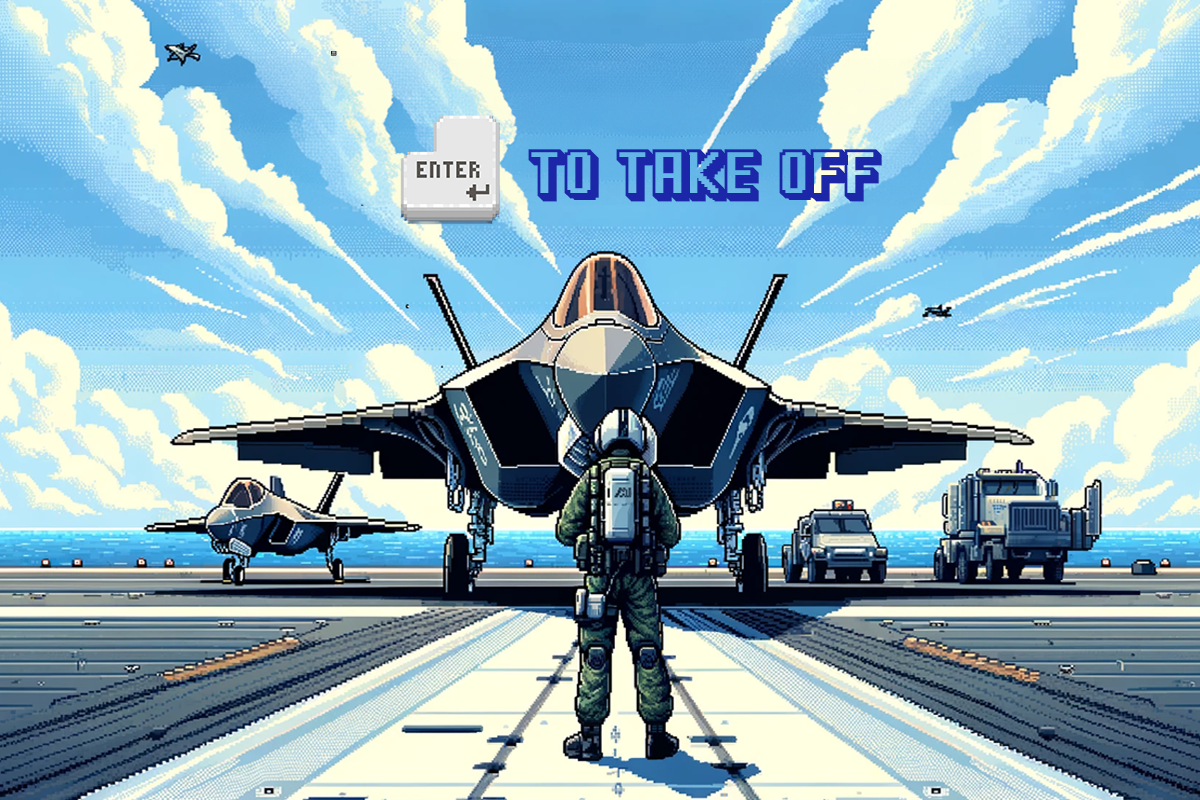
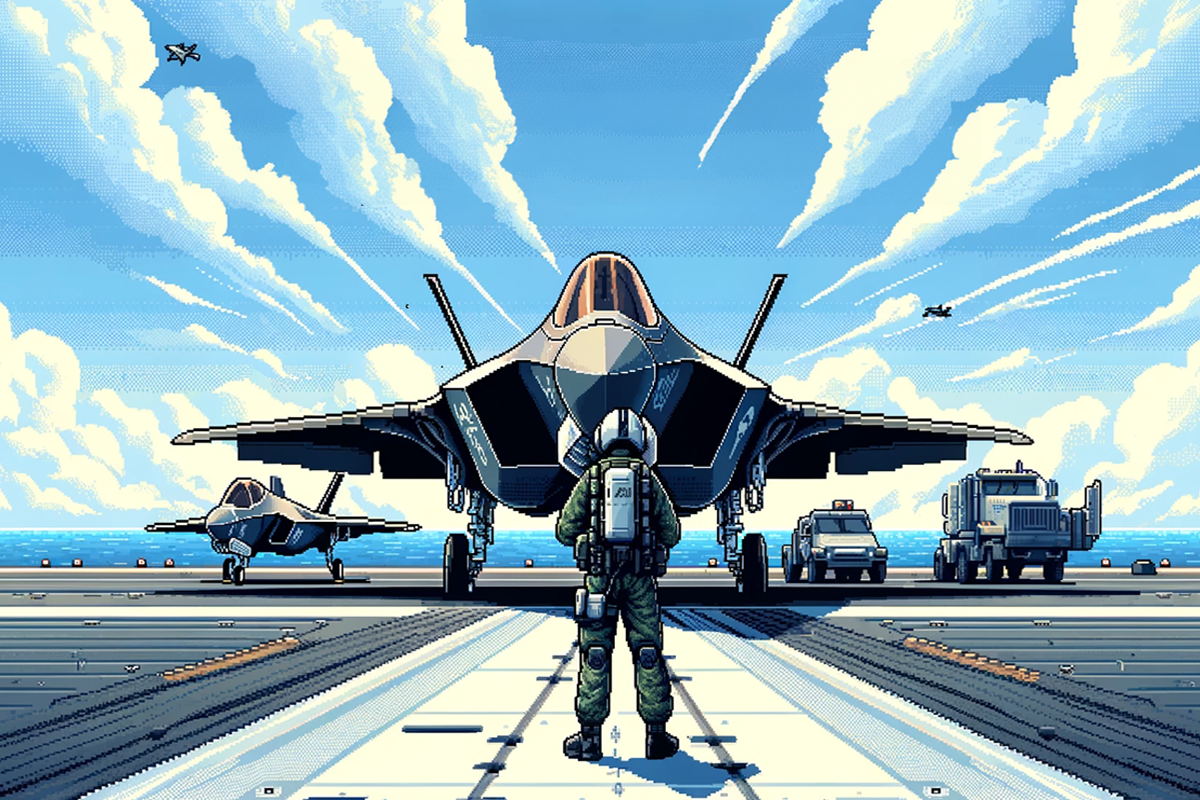
Functional menu button

Changed region(s): [[0.3083, 0.125, 0.74, 0.2812]]

diff --git a/main_menu.py b/main_menu.py
@@ -1,20 +1,38 @@
-import pygame, window_specs
+import pygame, window_specs, pygame_gui
+
 pygame.init()
+
+
 def main_menu():
     window = window_specs.Window()
     pygame.mixer.init()
+    manager = pygame_gui.UIManager((800, 600), 'assets/buttoncfg.json')
     pygame.mixer.music.load('assets/menu.mp3')
     pygame.mixer.music.play()
     pygame.mixer.music.set_volume(0.1)
     menu_background = pygame.image.load('assets/menu.png').convert_alpha()
+    hi_b = pygame_gui.elements.UIButton(relative_rect=pygame.Rect((475, 130), (200, 65)), text='',
+                                        manager=manager)
+
     main_running = True
     while main_running:
+        time_delta = window.clock.tick(window.FPS) / 1000.0
         keys = pygame.key.get_pressed()
-        for event in pygame.event.get() :
-            if event.type == pygame.QUIT or keys[pygame.K_RETURN]:
+        for event in pygame.event.get():
+            if event.type == pygame.QUIT:
                 main_running = False
+            manager.process_events(event)
+            if event.type == pygame_gui.UI_BUTTON_PRESSED:
+                if event.ui_element == hi_b:
+                    main_running = False
+
+        manager.update(time_delta)
+
         window.screen.blit(menu_background, (-30, 0))
+        manager.draw_ui(window.screen)
 
         pygame.display.update()
         window.clock.tick(window.FPS)
 
+
+main_menu()
